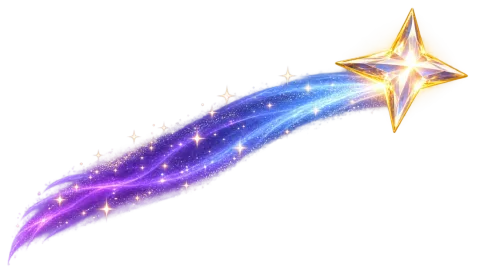
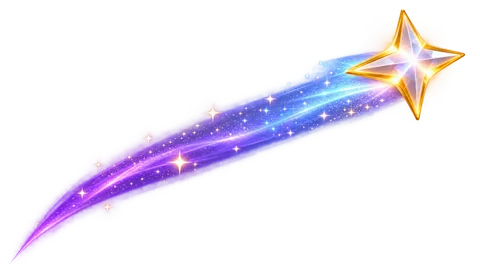
Studio redesign: approved final art for Mission Control and Navigator
Meagan approved the final art boards on 2026-11-19. Web sizes only; the
full-size originals stay in studio-redesign/art/final.

- Mission Control: five station badges (256 px), the client's rocket in
  four stages with the round porthole (512 px), six empty states, the
  Scope landmark, the login hero and an Open Graph base (title is added
  when the login and OG stories are built). Not used by any page yet.
- Navigator: the panel's emblem, shooting star and starfield are swapped
  for the final art at the same file names and sizes, so the panel picks
  them up with no code change. Two more shooting stars (gold, blue) for
  the drafting sweep.
- docs/art/prompts.md logs every prompt, where each file lives, and how
  to check transparency, so any asset can be made again.

Review: assets and docs only. Every cut-out was checked for a real alpha
channel (four transparent corners). Largest new file 81 KB. Build, lint,
format, types and Pest (836 passed, 1 skipped) all pass.

Changed region(s): [[0.0, 0.0296, 0.9688, 0.9778]]

diff --git a/docs/art/prompts.md b/docs/art/prompts.md
@@ -1,0 +1,75 @@
+# Art prompts
+
+Approved by Meagan on 2026-11-19 (Studio Redesign, "Final art" on the
+Redesign Art Board). Made in ChatGPT (Plus). Full-size originals live in
+`studio-redesign/art/final/`; this repo holds web sizes:
+
+| Master file                     | In this repo                                                                                     |
+| ------------------------------- | ------------------------------------------------------------------------------------------------ |
+| `mc/badge-<name>.webp`          | `resources/images/mission-control/badges/<name>.webp` (256 px)                                   |
+| `mc/rocket-<n>-<stage>.webp`    | `resources/images/mission-control/rocket/<n>-<stage>.webp` (512 px)                              |
+| `mc/empty-<name>.webp`          | `resources/images/mission-control/empty/<name>.webp` (480 px)                                    |
+| `mc/landmark-scope.webp`        | `resources/images/mission-control/landmarks/scope.webp` (720 px)                                 |
+| `mc/login-hero.webp`            | `resources/images/mission-control/login-hero.webp` (1600 px)                                     |
+| `mc/og.webp`                    | `resources/images/mission-control/og-base.jpg` (1200×630, no title yet)                          |
+| `nv/emblem.webp`                | `resources/images/navigator/emblem.webp` (96 px)                                                 |
+| `nv/shooting-star-<color>.webp` | `resources/images/navigator/shooting-star[-gold\|-blue].webp` (480 px; violet is the plain name) |
+| `nv/starfield.webp`             | `resources/images/navigator/starfield.webp` (1100 px)                                            |
+
+To make an asset again, paste its prompt plus the style line into the same
+kind of chat (see each section), then check transparency with
+`studio-redesign/tools/grab-full.js`.
+
+Made in ChatGPT (Plus) from 18 November 2026. Every prompt ends with the
+shared style line. Files are WebP, longest side at most 1600 px, in
+`art/final/<project>/`. "Alpha" means all four corners are fully
+transparent (checked by `tools/grab-full.js`).
+
+Style line (objects): _Pixar style 3D render, rich saturated colors,
+glossy materials, crisp detail, soft studio lighting with a gentle rim
+light. Isolated object, centered, on a transparent background (PNG with
+alpha). No text, no letters, no logos, no people._
+
+Style line (scenes): _Pixar style 3D render, rich saturated colors,
+glossy materials, crisp detail, soft cinematic lighting with a gentle rim
+light. No text, no letters, no logos, no people._
+
+## Mission Control
+
+Badges are made in the same ChatGPT chat as the approved Launch Control
+badge (`mc-4`), each asking to match it.
+
+| File                         | Prompt (before the style line)                                                                                                                                                                                                                                                                                                                                                                                                                 | Size      | Alpha      |
+| ---------------------------- | ---------------------------------------------------------------------------------------------------------------------------------------------------------------------------------------------------------------------------------------------------------------------------------------------------------------------------------------------------------------------------------------------------------------------------------------------- | --------- | ---------- |
+| `mc/badge-scope.webp`        | A round station emblem badge that matches the previous badge exactly in shape, size and materials: cream white enamel with a deep navy blue rim, small brass screws and a thin lime green inner ring. In the center a small drafting table with a rolled-out blue blueprint of a rocket on it, a brass compass and a pencil resting on the paper.                                                                                              | 1254²     | yes        |
+| `mc/badge-palette.webp`      | Same badge, matching the previous two. In the center three small open paint cans in lime green, navy blue and cream with a paintbrush resting across them, and a fanned-out color swatch fan beside them.                                                                                                                                                                                                                                      | 1254²     | yes        |
+| `mc/badge-proofmark.webp`    | Same badge, matching the previous ones. In the center a big brass magnifying glass over a small curved white rocket hull panel with lime green trim, with three colorful round pins stuck in the panel.                                                                                                                                                                                                                                        | 1254²     | yes        |
+| `mc/badge-simulator.webp`    | Same badge. In the center a small rounded flight simulator pod on a stand, white with lime green trim, its open canopy showing a glowing screen with a tiny rocket flight path, and a chunky joystick.                                                                                                                                                                                                                                         | 1254²     | yes        |
+| `mc/badge-launch.webp`       | Same badge, four small brass screws. In the center a small white and lime green rocket lifting off from a launch pad beside a little launch tower, with a puff of soft cloud. (Remake of `mc-4` at full size.)                                                                                                                                                                                                                                 | 1254²     | yes        |
+| `mc/landmark-scope.webp`     | Landscape 3:2: a flight planning still life: a wooden drafting table with a big rolled-out blue blueprint of a white and lime green rocket, its corners held down by a brass compass, a ruler and a navy blue coffee mug, a small lime green desk lamp shining on it, and two rolled-up plans leaning beside the table. _Isolated group_                                                                                                       | 1536×1024 | yes        |
+| `mc/rocket-1-blueprint.webp` | Square: stage 1 of 4 of a client's rocket: a white and lime green rocket (the same friendly rounded design as in the badges) shown only as a glowing blue blueprint hologram, standing upright on a small round navy blue launch pad base, with faint construction lines and measurement arcs around it.                                                                                                                                       | 1254²     | yes        |
+| `mc/rocket-2-building.webp`  | Square: stage 2 of 4: the exact same rocket design and the exact same round navy blue launch pad base as the previous image, but now half built in solid glossy white and lime green: the lower half finished with its fins, the upper half still an open frame of ribs, surrounded by a small yellow and grey scaffolding with a tiny crane arm lifting the nose cone. Same size and framing.                                                 | 1254²     | yes        |
+| `mc/rocket-3-fueled.webp`    | Square: stage 3 of 4: the exact same rocket and pad, now fully built with its nose cone on, the scaffolding gone, standing ready with two thick fuel hoses attached, soft white vapor curling from its base and the pad lights glowing amber. Same size and framing.                                                                                                                                                                           | 1254²     | yes        |
+| `mc/rocket-4-liftoff.webp`   | Square: stage 4 of 4: the exact same rocket and pad, now lifting off: risen a little above the pad, the hoses fallen away, a bright warm orange and yellow flame and a big puff of soft white cloud billowing onto the pad, pad lights glowing lime green. Same size and framing.                                                                                                                                                              | 1254²     | yes        |
+| `mc/empty-projects.webp`     | Square: an empty-state illustration for 'no projects yet': an empty round navy blue launch pad (the same pad design as the rocket images) with no rocket on it, a small orange traffic cone and a closed lime green toolbox waiting beside it, a tiny wisp of cloud. Calm and friendly. _Isolated group_                                                                                                                                       | 1254²     | yes        |
+| `mc/empty-all-clear.webp`    | Landscape 3:2: 'all clear, nothing waiting': a small deep navy blue control console with a row of three round lamps all glowing lime green, a flipped-up toggle switch, and a steaming navy blue coffee mug resting on top. Calm and content. _Isolated group, filling most of the frame_                                                                                                                                                      | 1536×1024 | yes        |
+| `mc/empty-activity.webp`     | Landscape 3:2: 'no activity yet': a small round radar scope in a deep navy blue housing with brass screws, its dark screen showing soft lime green rings and a gentle sweep line with no blips at all, standing on a short stand. Quiet and calm.                                                                                                                                                                                              | 1536×1024 | yes        |
+| `mc/empty-clients.webp`      | Landscape 3:2: 'no clients yet': a small rounded white and lime green viewing-stand bench, empty, with a pair of navy blue binoculars resting on the seat and a little lime green pennant flag on a pole beside it. Friendly and welcoming.                                                                                                                                                                                                    | 1536×1024 | yes        |
+| `mc/empty-library.webp`      | Landscape 3:2: 'your price library is empty': a small open wooden card-catalog drawer with lime green handles, completely empty inside, with one blank cream index card and a yellow pencil lying in front of it.                                                                                                                                                                                                                              | 1536×1024 | yes        |
+| `mc/empty-designs.webp`      | Landscape 3:2: 'no designs uploaded yet': a small wooden easel holding a blank cream canvas board, with a brass magnifying glass leaning against one leg and a little tray of three colorful round pins (lime green, navy blue, amber) at its foot.                                                                                                                                                                                            | 1536×1024 | yes        |
+| `mc/login-hero.webp`         | Wide 16:9: the same white and lime green rocket as in the stage images, standing on its launch pad beside a tall launch tower at dawn, pale sky blue fading to soft peach at the horizon, a few puffy clouds, morning sunlight catching the tower and the rocket. Place the rocket and tower in the right third; keep the left half simple open sky for a heading and a login form. _Scene_                                                    | 1672×941  | no (scene) |
+| `mc/og.webp`                 | Wide 16:9: the same rocket with its dark rounded window, lifting off from its round navy blue launch pad at dawn beside the launch tower, a bright warm flame and big soft white clouds billowing around the pad, pale sky blue fading to soft peach, a tiny white and lime green viewing stand far off in the lower left. Rocket in the right third; left half calm open sky for a title. Crop to 1200×630 and add the title in code. _Scene_ | 1672×941  | no (scene) |
+
+Redo (18 Nov, Meagan's pick): the round porthole from the two scenes is the rocket's window everywhere. The four stages and the Launch Control badge were redone in the same chat with: _redo … exactly as before, same framing, size and pad, with one change: a single round porthole window with a thick metal ring and dark green-tinted glass, like the rocket in the login hero image._ The badge took a second pass to put its screws at 12, 3, 6 and 9 o'clock like the other badges. The blueprint stage is now all blue; stage 2 shows the body finished and the nose cone going on.
+
+## Navigator
+
+Made in the same ChatGPT chat as the approved emblem (`nv-1`), starfield (`nv-2`) and shooting star (`nv-3`).
+
+| File                           | Prompt (before the style line)                                                                                                                                                                                                                                                                                                        | Size     | Alpha      |
+| ------------------------------ | ------------------------------------------------------------------------------------------------------------------------------------------------------------------------------------------------------------------------------------------------------------------------------------------------------------------------------------- | -------- | ---------- |
+| `nv/emblem.webp`               | The final version of the round emblem badge from earlier in this chat: navy blue enamel with a polished brass rim and four small brass rivets, matching the station badges' shape. In the center a small detailed brass sextant in front of one bright four-pointed white and gold star, with a few tiny violet stars around it.      | 1254²    | yes        |
+| `nv/starfield.webp`            | Wide 16:9: a deep navy to violet night sky backdrop for a panel: an even scatter of tiny white and pale gold stars, a few brighter four-pointed stars, soft violet and blue nebula wisps along the top edge and the right side, the center and bottom calm and darker. No constellation lines, no shooting stars, no planets. _Scene_ | 1672×941 | no (scene) |
+| `nv/shooting-star-violet.webp` | Wide 16:9: the same shooting star as earlier in this chat, flying diagonally from lower left to upper right, its head a bright faceted white and gold crystal star, with a long sparkling tail that fades from violet to soft blue, full of tiny glitter and four-pointed sparkles.                                                   | 1672×941 | yes        |
+| `nv/shooting-star-gold.webp`   | Wide 16:9: a sibling of the previous shooting star, smaller and more slender, flying from upper left down to lower right at a shallow angle, its head a bright faceted gold crystal star, with a shorter tail that fades from warm gold to pale peach.                                                                                | 1600×533 | yes        |
+| `nv/shooting-star-blue.webp`   | Wide 16:9: a third sibling, the smallest, a four-pointed crystal star head exactly like the other two (not five points), flying from lower left to upper right at a steep angle, with a short thin tail that fades from icy blue to soft violet. (The first try had five points.)                                                     | 1600×901 | yes        |
